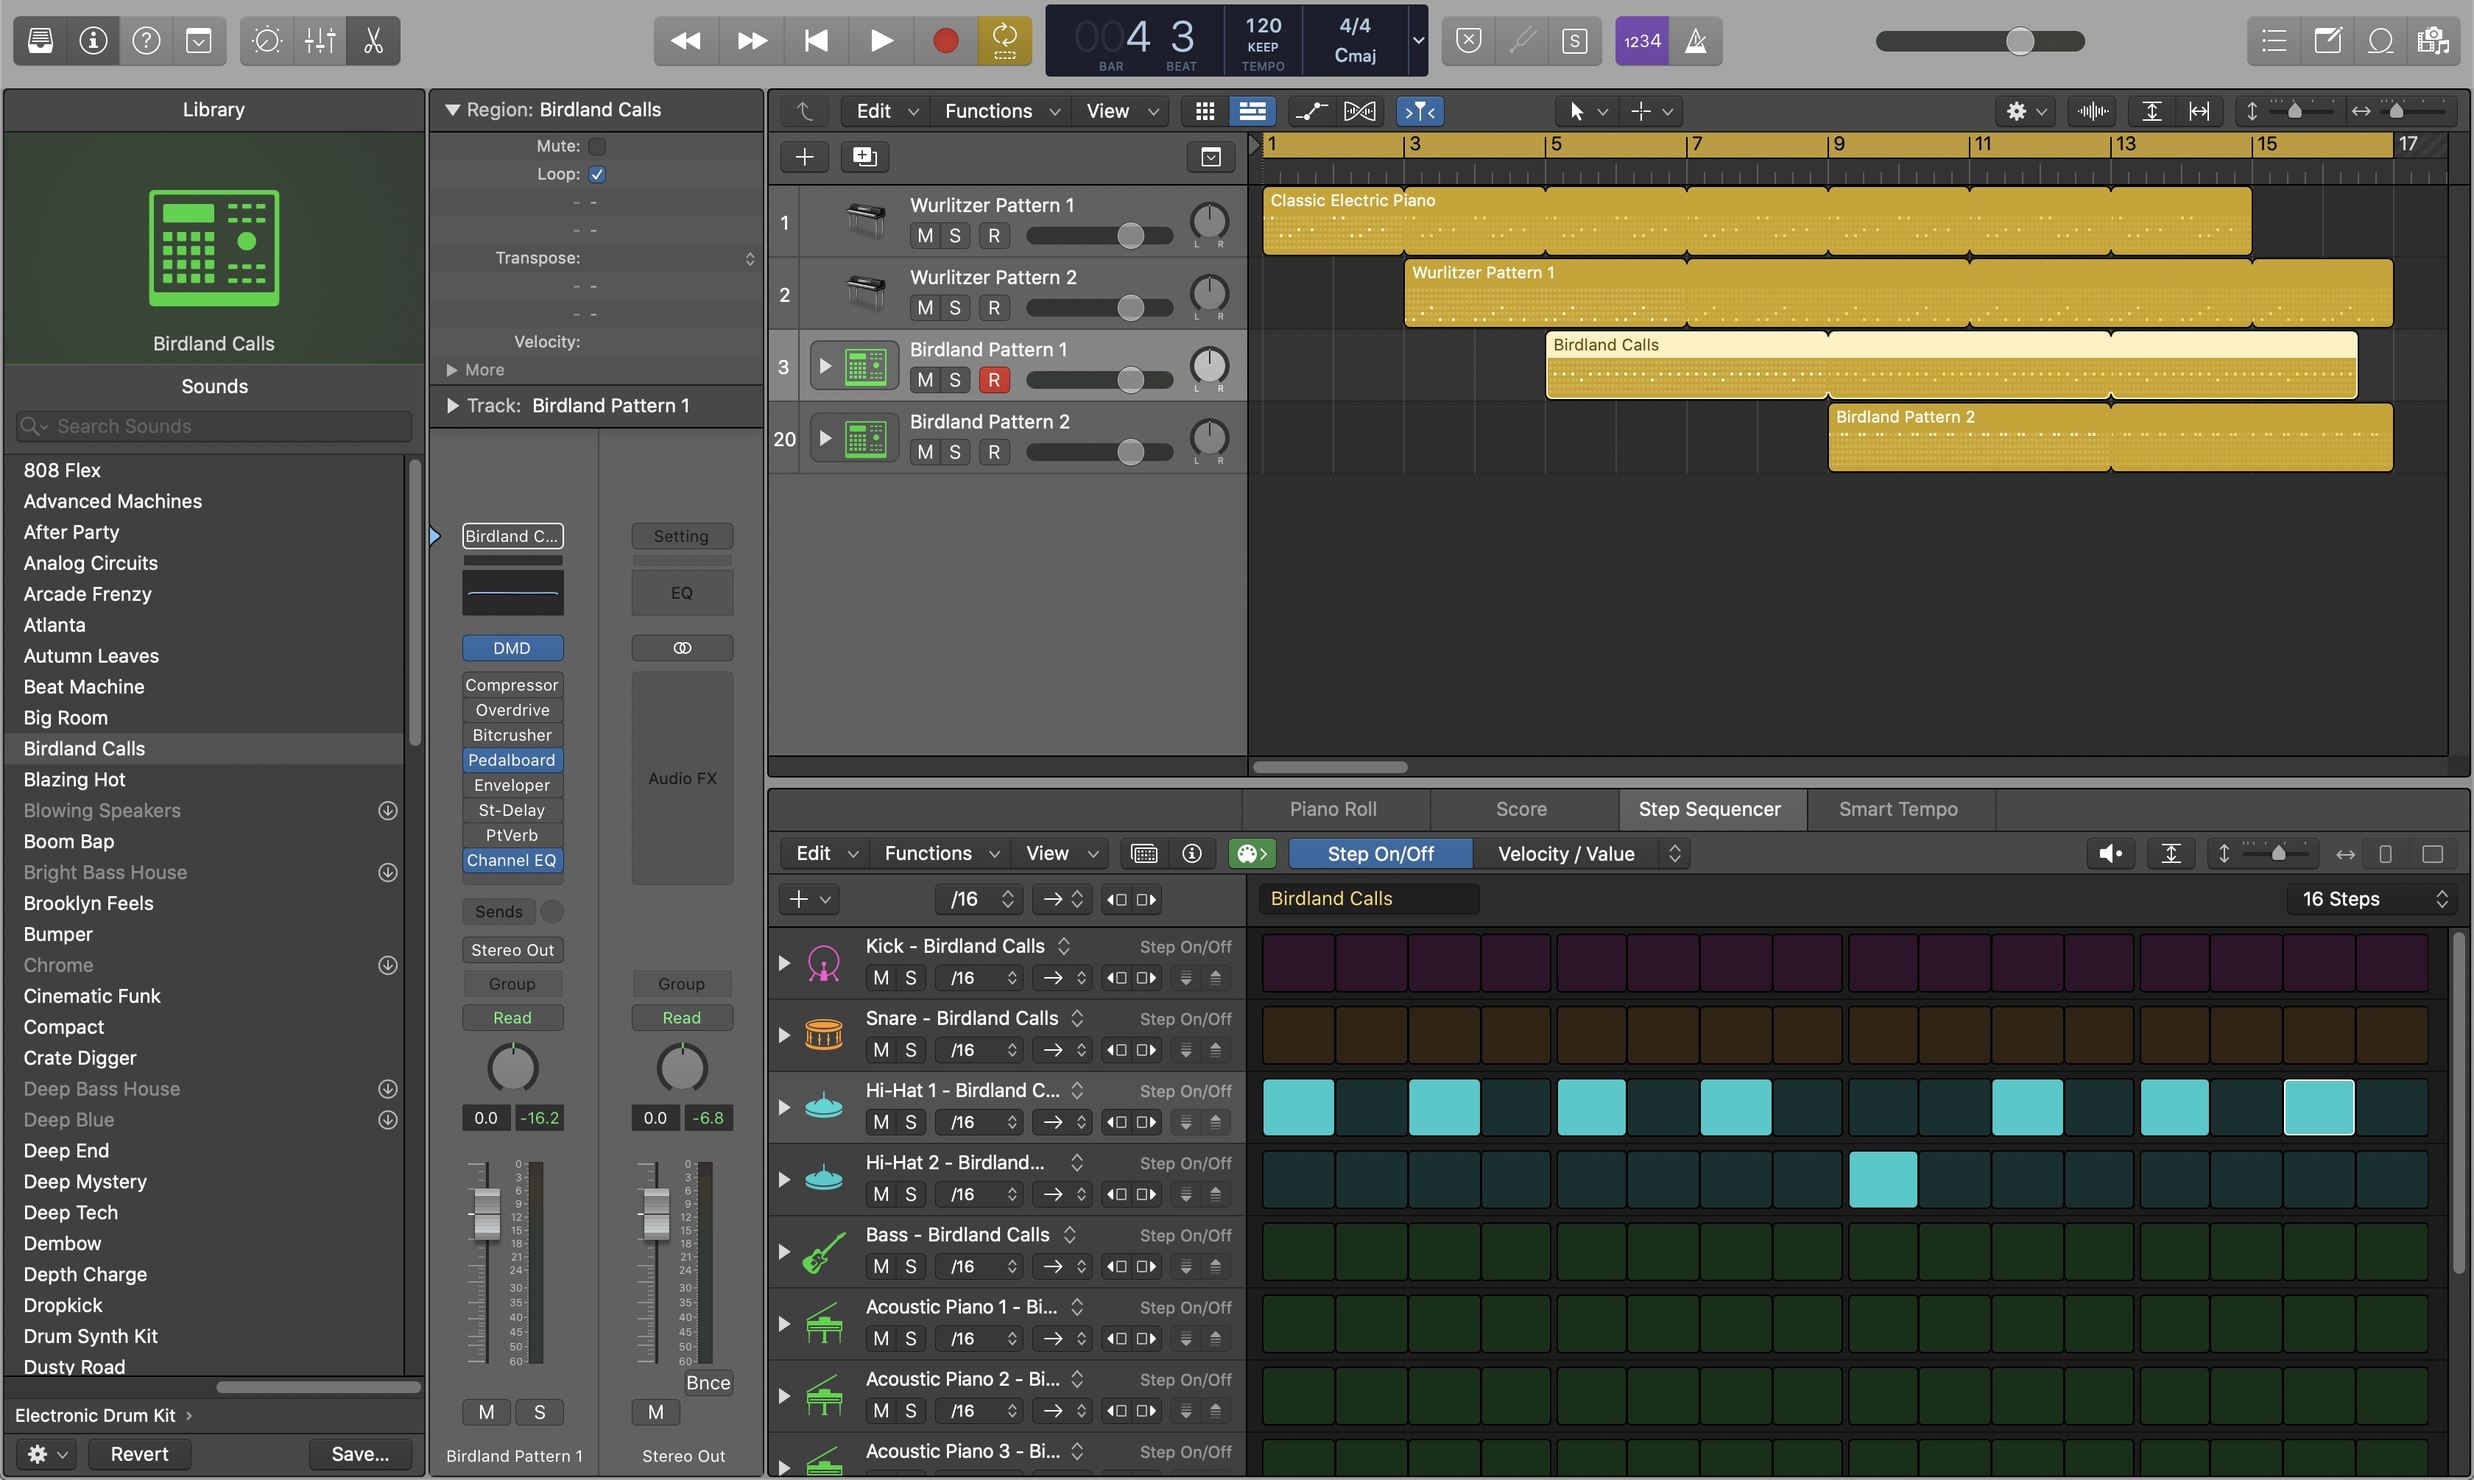
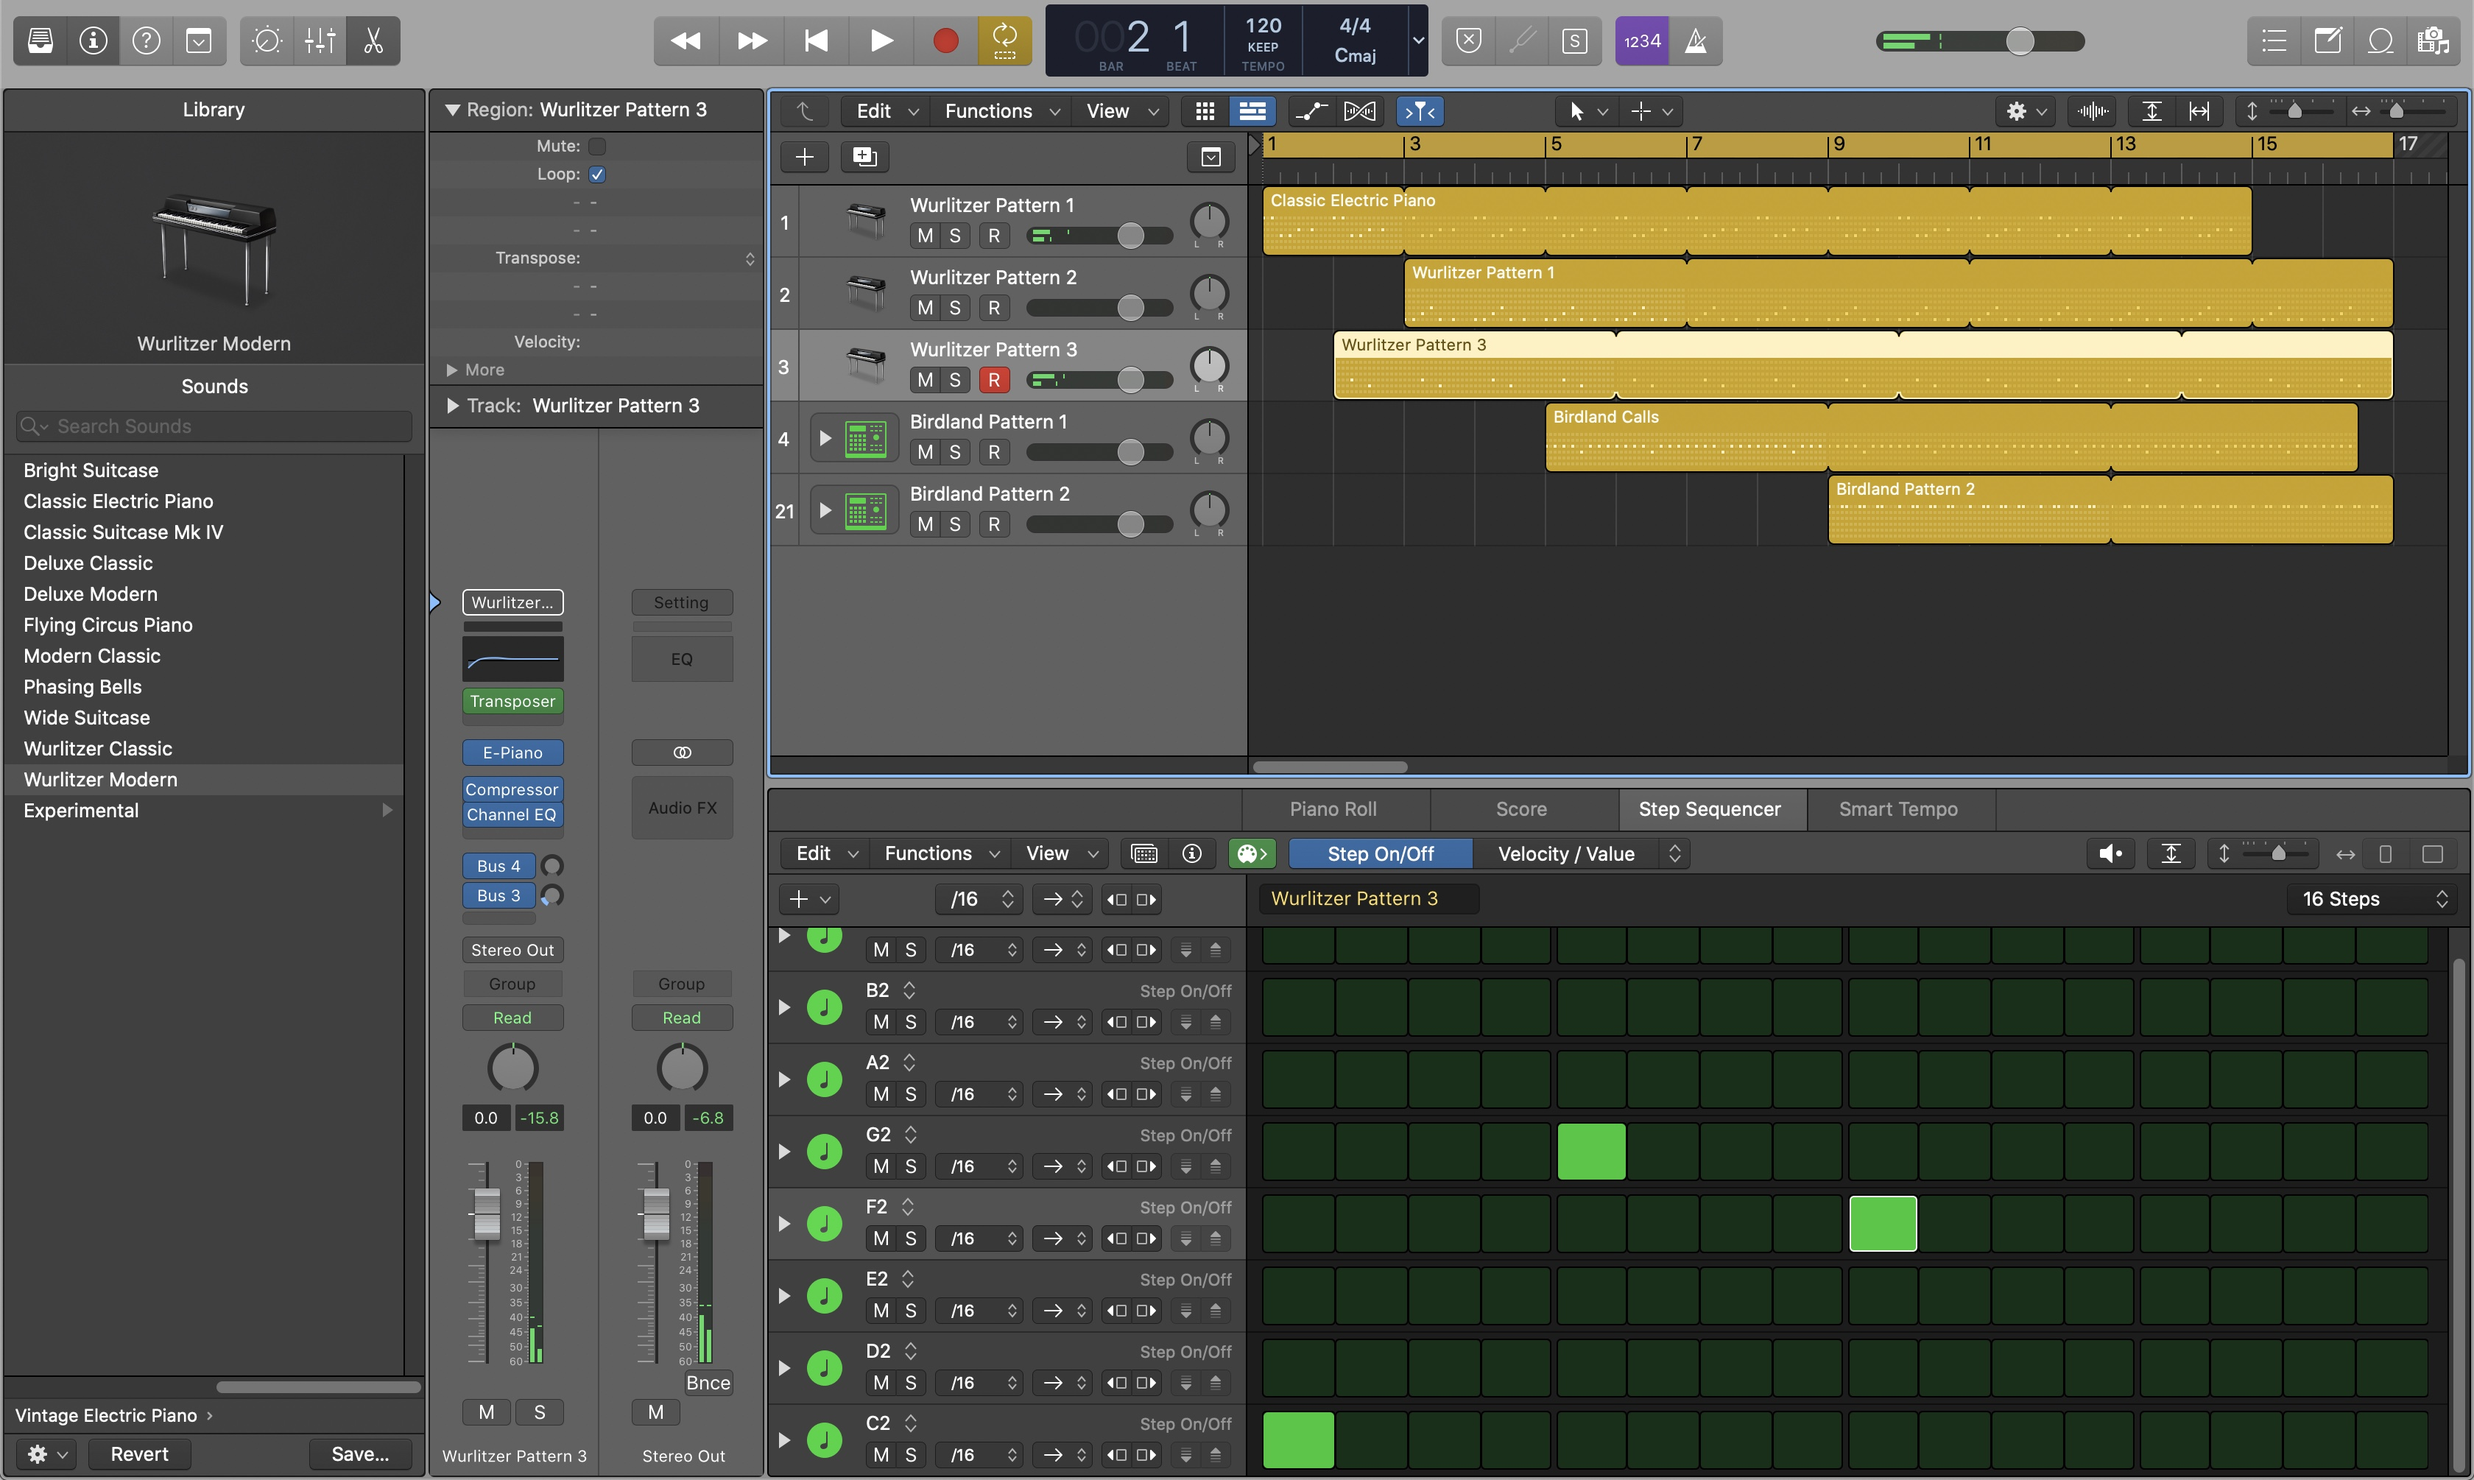
New commit for tag 01.002

diff --git a/README.md b/README.md
@@ -37,3 +37,5 @@ Project01 is a test project with 4 tracks of sequencer only data. No audio track
  * Ultrabeat audio data
 
 Tag 01.001: first commit to Project01 with the basic 4 tracks of sequencer data
+
+Tag 01.002: new 5th track added, "wurlitzer pattern 3"
